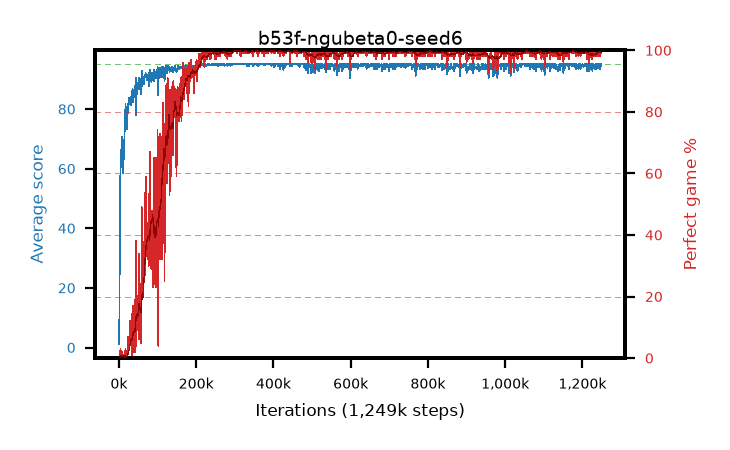
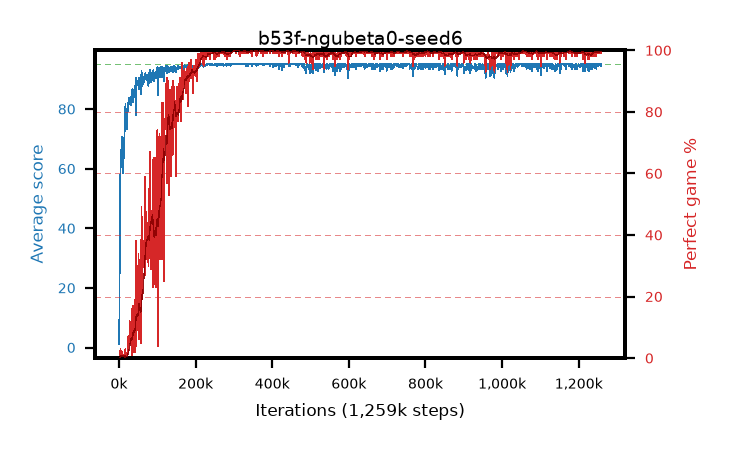
live pictures of 4 arm(s)

diff --git a/results/b53f-ngubeta0-seed6/b53f-ngubeta0-seed6.md b/results/b53f-ngubeta0-seed6/b53f-ngubeta0-seed6.md
@@ -1,6 +1,6 @@
 # b53f-ngubeta0-seed6
 
-step **1,249,000** · 1249 evals · trailing **94.42** · peak **94.99** @323,000 · sef **89.2** · best30 **99.8** @323,000
+step **1,259,000** · 1259 evals · trailing **94.66** · peak **94.99** @323,000 · sef **89.3** · best30 **99.8** @323,000
 
 ## Config
 
@@ -80,15 +80,15 @@ step **1,249,000** · 1249 evals · trailing **94.42** · peak **94.99** @323,00
 | 2000 | 35.17 | 18.16 | 10.0 | 67.0 | 29.965 | 0.0 | 0.4 |
 | 3000 | 47.63 | 27.98 | 1.0 | 93.0 | 42.642 | 0.0 | 0.4 |
 | ... | ... | ... | ... | ... | ... | ... | ... |
-| 1238000 | 94.23 | 94.22 | 18.0 | 95.0 | 191.974 | 99.0 | 0.4 |
-| 1239000 | 95.0 | 94.22 | 95.0 | 95.0 | 193.795 | 100.0 | 0.4 |
-| 1240000 | 95.0 | 94.24 | 95.0 | 95.0 | 193.787 | 100.0 | 0.4 |
-| 1241000 | 93.76 | 94.2 | 20.0 | 95.0 | 190.481 | 98.0 | 0.4 |
-| 1242000 | 95.0 | 94.27 | 95.0 | 95.0 | 193.789 | 100.0 | 0.4 |
-| 1243000 | 95.0 | 94.32 | 95.0 | 95.0 | 193.785 | 100.0 | 0.4 |
-| 1244000 | 94.95 | 94.34 | 90.0 | 95.0 | 192.743 | 99.0 | 0.4 |
-| 1245000 | 95.0 | 94.34 | 95.0 | 95.0 | 193.786 | 100.0 | 0.4 |
-| 1246000 | 93.47 | 94.37 | 14.0 | 95.0 | 190.176 | 98.0 | 0.4 |
-| 1247000 | 95.0 | 94.42 | 95.0 | 95.0 | 193.779 | 100.0 | 0.4 |
 | 1248000 | 94.26 | 94.4 | 21.0 | 95.0 | 191.991 | 99.0 | 0.4 |
 | 1249000 | 95.0 | 94.42 | 95.0 | 95.0 | 193.795 | 100.0 | 0.4 |
+| 1250000 | 95.0 | 94.42 | 95.0 | 95.0 | 193.784 | 100.0 | 0.4 |
+| 1251000 | 94.29 | 94.42 | 24.0 | 95.0 | 192.038 | 99.0 | 0.4 |
+| 1252000 | 94.97 | 94.42 | 92.0 | 95.0 | 192.715 | 99.0 | 0.4 |
+| 1253000 | 95.0 | 94.47 | 95.0 | 95.0 | 193.792 | 100.0 | 0.4 |
+| 1254000 | 95.0 | 94.54 | 95.0 | 95.0 | 193.793 | 100.0 | 0.4 |
+| 1255000 | 95.0 | 94.57 | 95.0 | 95.0 | 193.784 | 100.0 | 0.4 |
+| 1256000 | 95.0 | 94.64 | 95.0 | 95.0 | 193.79 | 100.0 | 0.4 |
+| 1257000 | 94.36 | 94.62 | 31.0 | 95.0 | 192.119 | 99.0 | 0.4 |
+| 1258000 | 95.0 | 94.66 | 95.0 | 95.0 | 193.786 | 100.0 | 0.4 |
+| 1259000 | 95.0 | 94.66 | 95.0 | 95.0 | 193.787 | 100.0 | 0.4 |

diff --git a/results/b53h-ngubeta0-seed8/b53h-ngubeta0-seed8.md b/results/b53h-ngubeta0-seed8/b53h-ngubeta0-seed8.md
@@ -1,6 +1,6 @@
 # b53h-ngubeta0-seed8
 
-step **1,269,000** · 1269 evals · trailing **94.51** · peak **94.92** @356,000 · sef **92.6** · best30 **99.7** @539,000
+step **1,279,000** · 1279 evals · trailing **94.37** · peak **94.92** @356,000 · sef **92.7** · best30 **99.7** @539,000
 
 ## Config
 
@@ -80,15 +80,15 @@ step **1,269,000** · 1269 evals · trailing **94.51** · peak **94.92** @356,00
 | 2000 | 50.19 | 26.7 | 2.0 | 95.0 | 51.185 | 6.0 | 0.4 |
 | 3000 | 57.71 | 37.03 | 27.0 | 95.0 | 54.481 | 2.0 | 0.4 |
 | ... | ... | ... | ... | ... | ... | ... | ... |
-| 1258000 | 95.0 | 94.54 | 95.0 | 95.0 | 193.787 | 100.0 | 0.4 |
-| 1259000 | 95.0 | 94.57 | 95.0 | 95.0 | 193.778 | 100.0 | 0.4 |
-| 1260000 | 94.86 | 94.56 | 81.0 | 95.0 | 192.601 | 99.0 | 0.4 |
-| 1261000 | 93.57 | 94.52 | 23.0 | 95.0 | 190.271 | 98.0 | 0.4 |
-| 1262000 | 93.55 | 94.49 | 16.0 | 95.0 | 190.254 | 98.0 | 0.4 |
-| 1263000 | 93.49 | 94.44 | 18.0 | 95.0 | 190.193 | 98.0 | 0.4 |
-| 1264000 | 94.17 | 94.44 | 12.0 | 95.0 | 191.912 | 99.0 | 0.4 |
-| 1265000 | 95.0 | 94.46 | 95.0 | 95.0 | 193.771 | 100.0 | 0.4 |
-| 1266000 | 95.0 | 94.51 | 95.0 | 95.0 | 193.783 | 100.0 | 0.4 |
-| 1267000 | 95.0 | 94.51 | 95.0 | 95.0 | 193.777 | 100.0 | 0.4 |
 | 1268000 | 94.2 | 94.48 | 15.0 | 95.0 | 191.943 | 99.0 | 0.4 |
 | 1269000 | 95.0 | 94.51 | 95.0 | 95.0 | 193.78 | 100.0 | 0.4 |
+| 1270000 | 95.0 | 94.59 | 95.0 | 95.0 | 193.791 | 100.0 | 0.4 |
+| 1271000 | 93.66 | 94.57 | 24.0 | 95.0 | 190.36 | 98.0 | 0.4 |
+| 1272000 | 94.65 | 94.56 | 60.0 | 95.0 | 192.397 | 99.0 | 0.4 |
+| 1273000 | 95.0 | 94.56 | 95.0 | 95.0 | 193.784 | 100.0 | 0.4 |
+| 1274000 | 94.99 | 94.56 | 94.0 | 95.0 | 192.734 | 99.0 | 0.4 |
+| 1275000 | 93.74 | 94.52 | 16.0 | 95.0 | 190.439 | 98.0 | 0.4 |
+| 1276000 | 92.0 | 94.42 | 8.0 | 95.0 | 186.629 | 96.0 | 0.4 |
+| 1277000 | 95.0 | 94.42 | 95.0 | 95.0 | 193.77 | 100.0 | 0.4 |
+| 1278000 | 95.0 | 94.42 | 95.0 | 95.0 | 193.784 | 100.0 | 0.4 |
+| 1279000 | 93.58 | 94.37 | 23.0 | 95.0 | 190.289 | 98.0 | 0.4 |
